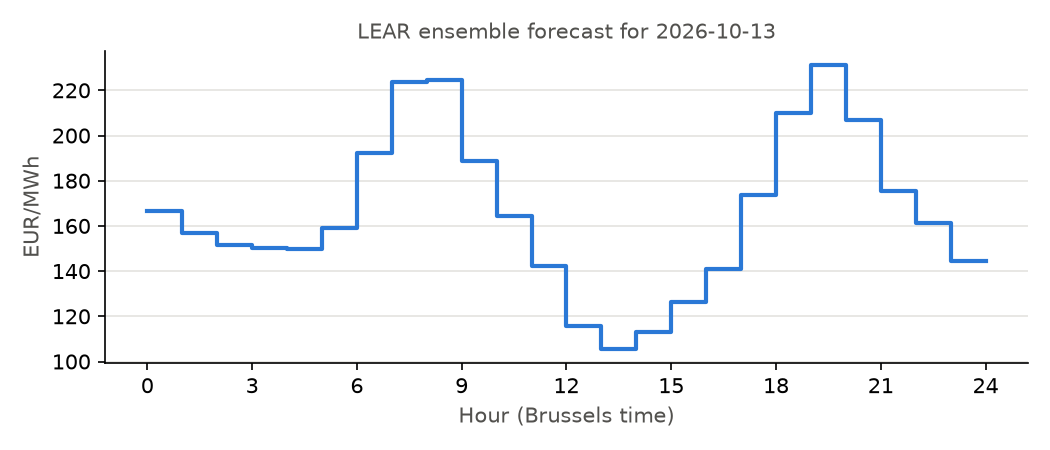
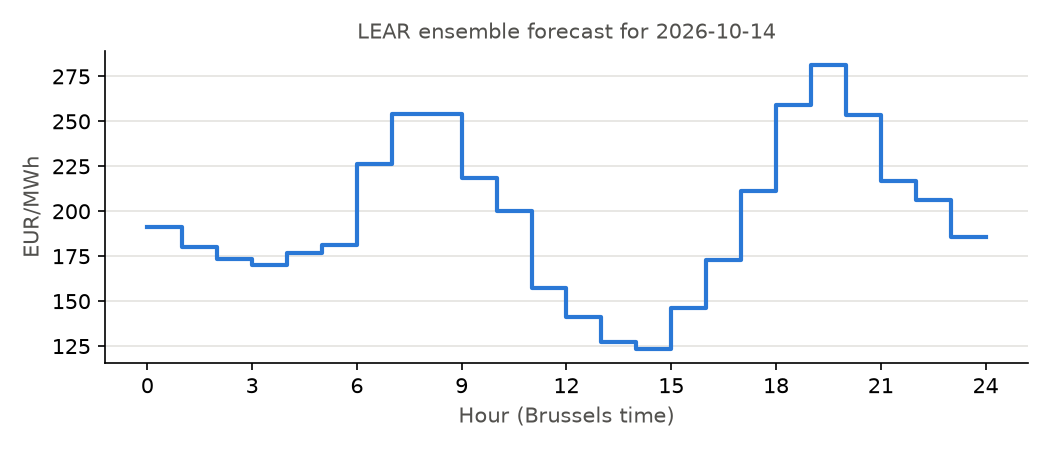
chore(live): forecast of 2026-10-14

Changed region(s): [[0.0305, 0.1556, 0.9752, 0.84], [0.7314, 0.0622, 0.7619, 0.0933]]

diff --git a/live/README.md b/live/README.md
@@ -1,16 +1,16 @@
 # Live forecast of the Belgian day-ahead price
 
-Updated automatically on 2026-10-12 19:49 (Brussels time) by `scripts/live_forecast.py`, every morning before the 12:00 gate closure of the day-ahead auction. The model is the 4-window LEAR ensemble of the backtests, recalibrated every morning.
+Updated automatically on 2026-10-13 17:55 (Brussels time) by `scripts/live_forecast.py`, every morning before the 12:00 gate closure of the day-ahead auction. The model is the 4-window LEAR ensemble of the backtests, recalibrated every morning.
 
-## Delivery day 2026-10-13
+## Delivery day 2026-10-14
 
 ![Forecast](forecast.png)
 
 | Hour | 00 | 01 | 02 | 03 | 04 | 05 | 06 | 07 | 08 | 09 | 10 | 11 |
 |---|---|---|---|---|---|---|---|---|---|---|---|---|
-| EUR/MWh | 166.5 | 156.8 | 151.5 | 150.4 | 150.0 | 159.1 | 192.4 | 223.8 | 224.4 | 188.7 | 164.4 | 142.4 |
+| EUR/MWh | 191.5 | 179.9 | 173.3 | 170.0 | 177.0 | 181.2 | 226.1 | 253.9 | 254.3 | 218.4 | 200.3 | 157.3 |
 | Hour | 12 | 13 | 14 | 15 | 16 | 17 | 18 | 19 | 20 | 21 | 22 | 23 |
-| EUR/MWh | 115.6 | 105.7 | 113.2 | 126.4 | 141.1 | 173.9 | 209.8 | 231.1 | 206.8 | 175.4 | 161.1 | 144.5 |
+| EUR/MWh | 141.2 | 127.1 | 123.6 | 146.4 | 173.1 | 211.3 | 259.3 | 281.2 | 253.5 | 216.6 | 206.5 | 185.4 |
 
 Hourly prices; since 1 October 2025 each value is the average of four quarter-hours.
 
